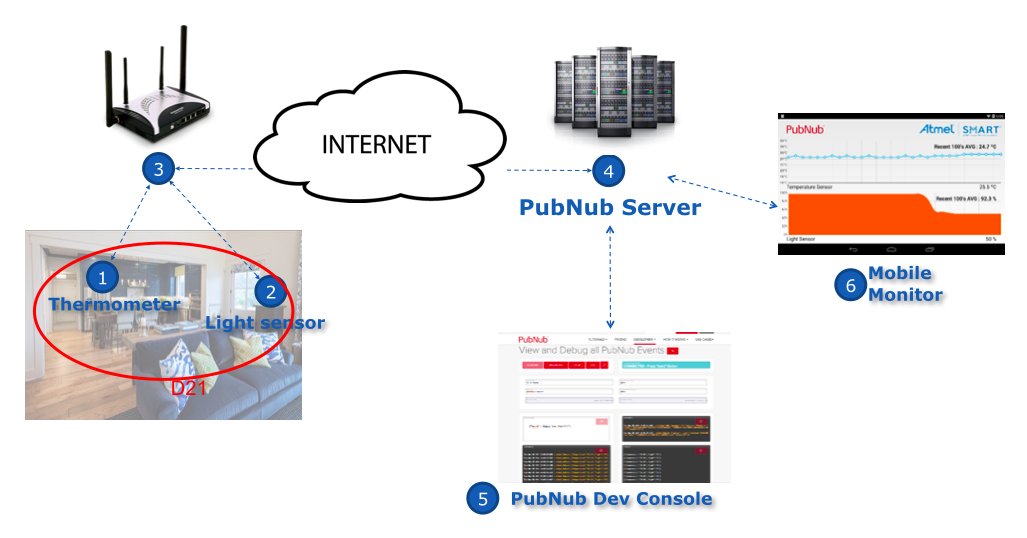
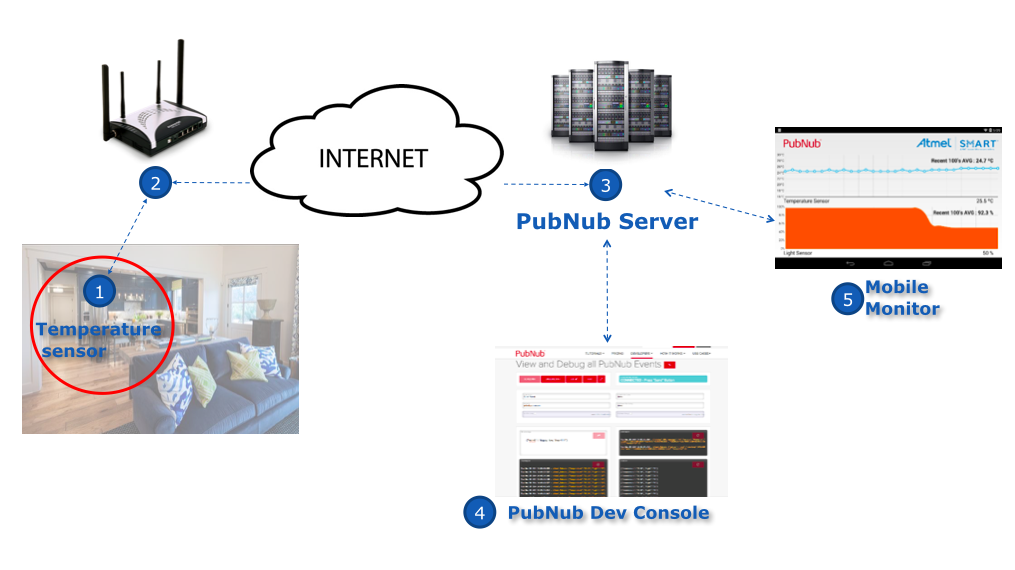
edited pic

diff --git a/README.md b/README.md
@@ -1,20 +1,24 @@
-##Blog, How - To
+#Blog, How - To
  
 
 The buzzword being IoT, we wanted to build something that everyone can easily understand and build themselves, and of course include both hardware and software. The first thing that came to our mind was the Raspberry Pi and the Arduino, but we wanted to try out something different. Something that is easy to build, that is viable and easily scalable.
 
-The Atmel temperature sensor enables monitoring the temperature from anywhere in the world at low-latency, and provide updates in realtime whenever the temperature changes. 
+
+ 
+ 
+ <insert image/gif of the UI built by Tomomi>
+ 
+ 
+## What you are building
+
+The Atmel temperature sensor enables monitoring temperature from anywhere in the world at low-latency, and provide updates in realtime whenever the temperature changes. 
 The temperature sensor will measure the ambient temperature and publish it as a data stream to a channel in the PubNub network. A web browser that subscribes to this channel displays the data stream. 
- 
- 
- <insert image of the UI built by Tomomi>
- 
- 
-### What you are building
+
+### The concept : 
 
 ![alt text](images/demofunctionality.png)
 
-1. The Atmel I/O1 Xplained Pro contains the temperature and light sensor. 
+1. We are using the Atmel I/O1 Xplained Pro sensor that measures the temperature. 
 2. This is connecting to the wifi using the ATWINC1500 module which can talk to any device on the internet.
 4. The PubNub code running on the Atmel chip enables us to publish the temperature and light information in real time to any one subscribing to the same channel.
 5. Through the [pubnub developer console](http://www.pubnub.com/console/), you can receive this stream of information from as many sensors as you like in real time. 
@@ -40,7 +44,7 @@ The temperature sensor will measure the ambient temperature and publish it as a 
 7. Open the PubNub example solution file. 
 	
 
-### Connecting the hardware to make sense
+### Connecting the hardware so it works
 
 1. Connect WINC1500 XPRO board to SAMD21 XPRO connector EXT1
 2. Connect IO1 XPRO board to SAMD21 XPRO connector EXT2
@@ -56,9 +60,10 @@ The temperature sensor will measure the ambient temperature and publish it as a 
 1. First, we will need to do a firmware update - details on firmware update. 
 2. open main.h and change the following : 
 	
-```#define TEST_MODE_SSID	(choose THE wifi access point you want the chip to connect to)
-   #define TEST_MODE_PASSWORD (enter the password for the same wifi connection)
-   #define TEST_MODE_WITHOUT_PROVISION
+```
+#define TEST_MODE_SSID	(choose THE wifi access point you want the chip to connect to)
+#define TEST_MODE_PASSWORD (enter the password for the same wifi connection)
+#define TEST_MODE_WITHOUT_PROVISION
 ```
 3. In main.c, add the channel name and pub, sub keys. 
 4. Build (F7 / Build -> build solution), run(continue/ green arrow/ F5/ debug -> continue).
@@ -69,7 +74,7 @@ The temperature sensor will measure the ambient temperature and publish it as a 
 ![alt text](images/fullsetup.png)	
 
 
-5. how to scale this
+7. Open (link to tomomis demo) to view the data stream on abeautiful real time chart. 
 6. practical use cases
 
 
